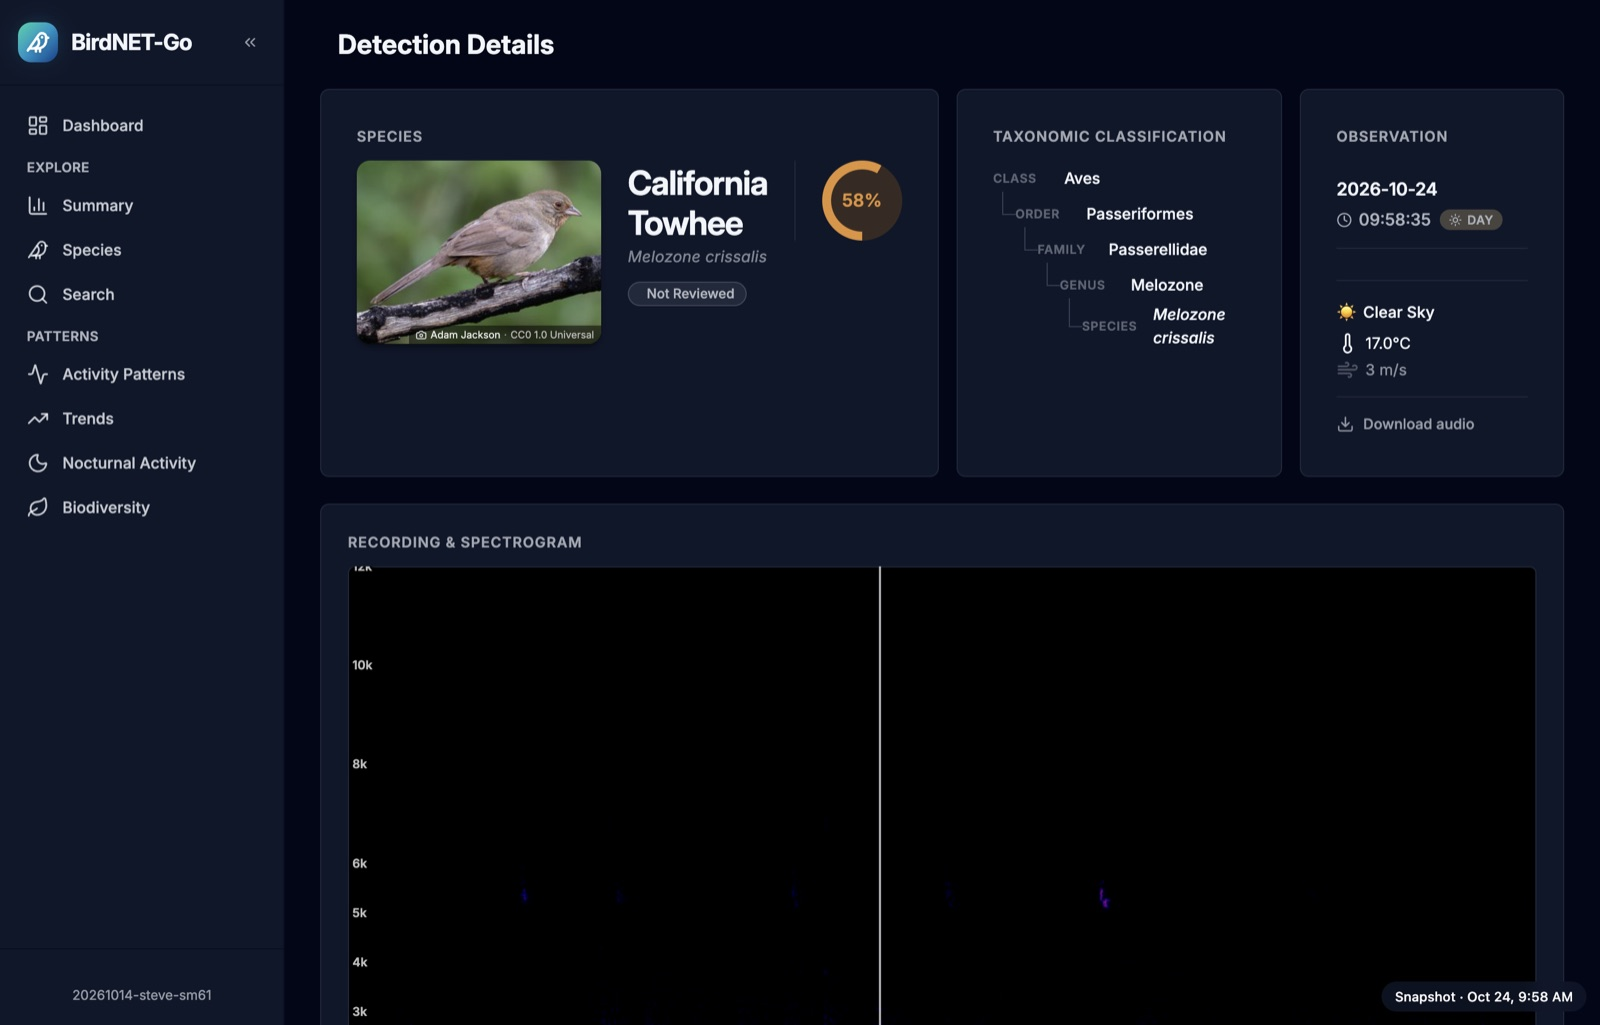
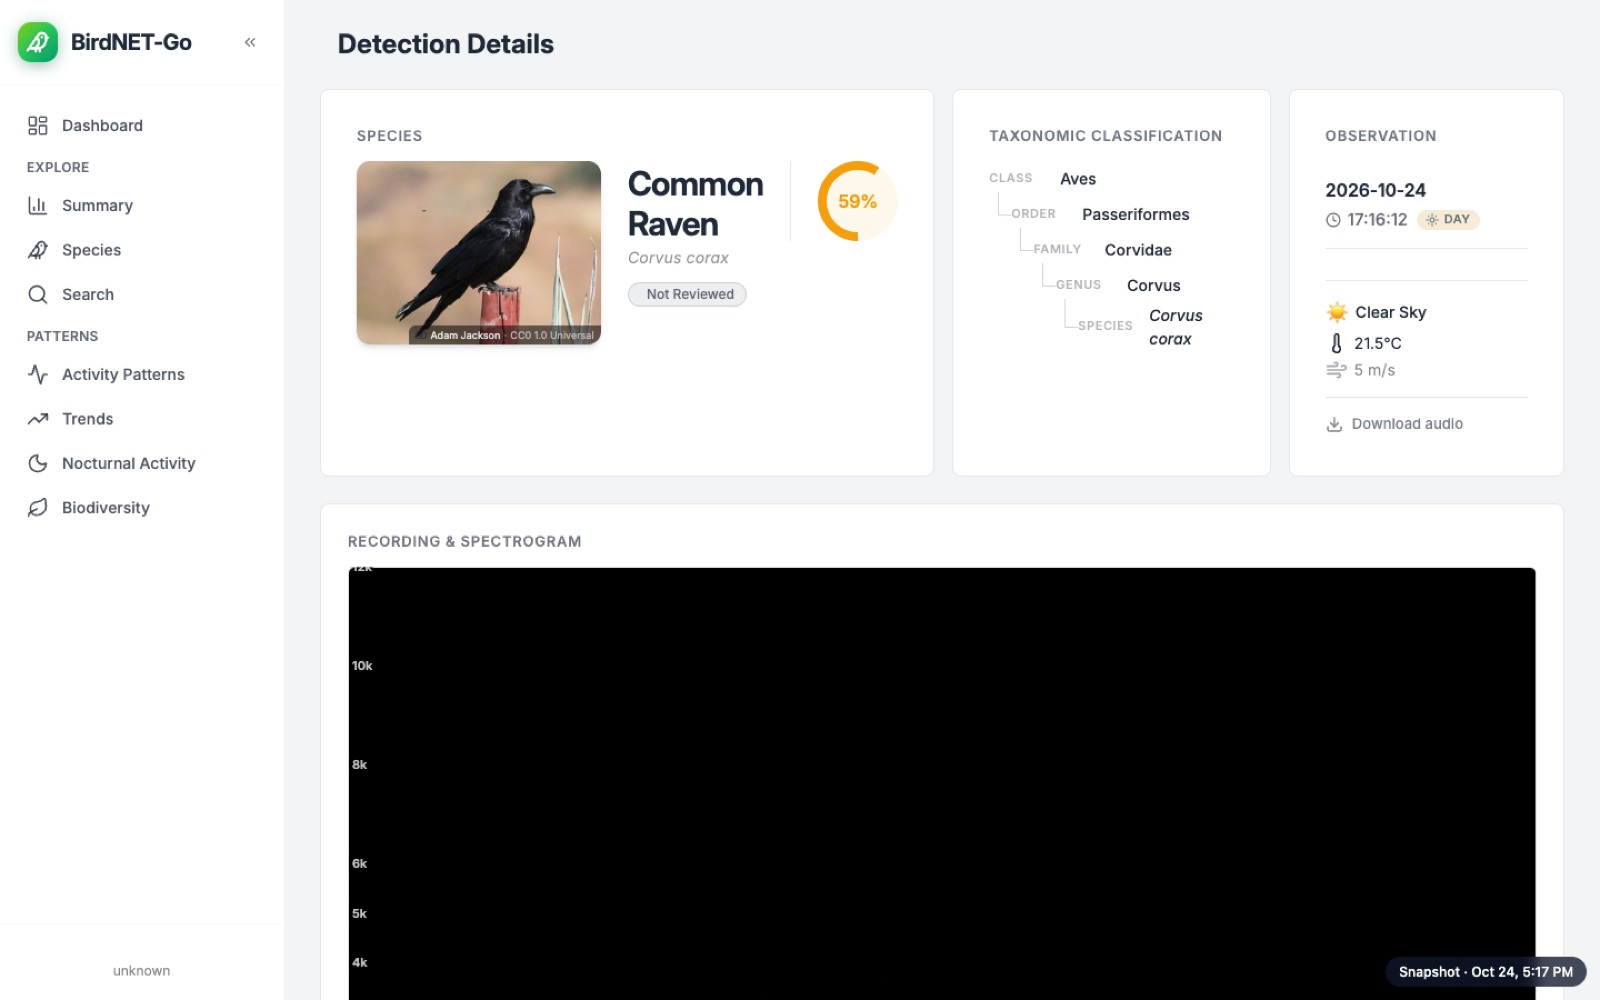
sw: pass the page's abort signal on; README screenshots; Firefox abort noise is a warning
The fake app now aborts a request mid-flight like the real UI, so CI
shows what Firefox logs for it.

diff --git a/web/sw.js b/web/sw.js
@@ -81,13 +81,13 @@ async function answer(req, url, api) {
   if (!entry && st && st.info.previous) entry = (await loadPrevious(st.info.previous))[k];
   if (entry) {
     try {
-      const r = await fetch('/_snap/' + entry.f);
+      const r = await fetch('/_snap/' + entry.f, { signal: req.signal }); // stop if the page gives up
       if (r.ok) return respond(req, await r.blob(), entry.t || TYPES[entry.f.slice(entry.f.lastIndexOf('.') + 1)] || 'application/octet-stream');
     } catch (e) {
       return json(503, { error: 'unavailable', message: 'The snapshot could not be loaded. Check your connection.' });
     }
   }
-  if (!api) return fetch(url.pathname); // query string on a static file: ignore it (errors caught above)
+  if (!api) return fetch(url.pathname, { signal: req.signal }); // query string on a static file: ignore it (errors caught above)
   // Endpoints a logged-out guest of a real server gets 401 for: answer the
   // same, so the UI treats it as "not signed in" and stays quiet.
   const prot = (st && st.info.protected) || DEFAULT_PROTECTED;

diff --git a/e2e_test.go b/e2e_test.go
@@ -49,6 +49,8 @@ window.__guest = cfg.security.enabled && !cfg.security.accessAllowed;
 new EventSource('/api/v2/detections/stream');
 fetch('/api/v2/settings/main').catch(() => {});
 window.__write = await fetch('/api/v2/detections/31', { method: 'DELETE' }).then(r => r.status, () => 'blocked');
+// Like the real UI, give up on a request mid-flight (Firefox logs these).
+{ const ac = new AbortController(); fetch('/api/v2/detections/recent?limit=5&date=none', { signal: ac.signal }).catch(() => {}); ac.abort(); }
 const m = location.pathname.match(/^\/ui\/detections\/(\d+)$/);
 if (m) {
   const d = await (await fetch('/api/v2/detections/' + m[1])).json();

diff --git a/tests/browsers/main.go b/tests/browsers/main.go
@@ -53,6 +53,8 @@ func severity(f finding) string {
 		return "warn"
 	case f.Kind == "console error" && strings.Contains(f.Detail, "status of 404"):
 		return "warn"
+	case f.Kind == "console error" && strings.Contains(f.Detail, "ServiceWorker intercepted the request") && strings.Contains(f.Detail, "Failed to load ‘’"):
+		return "warn" // Firefox: the page aborted a request the worker was answering
 	}
 	return "fail"
 }

diff --git a/README.md b/README.md
@@ -69,6 +69,12 @@ BirdNET-Go is great to share, but its UI has admin controls, live streams and no
 <td align="center"><sub>Detail page: species, taxonomy, weather, spectrogram and playable clip</sub></td>
 <td align="center"><sub>The phone layout works too</sub></td>
 </tr>
+<tr>
+<td colspan="2"><img src="docs/images/analytics.jpg" alt="The analytics summary page of the snapshot"/></td>
+</tr>
+<tr>
+<td colspan="2" align="center"><sub>Analytics: totals, top species, time of day, trends</sub></td>
+</tr>
 </table>
 
 ## How it works
